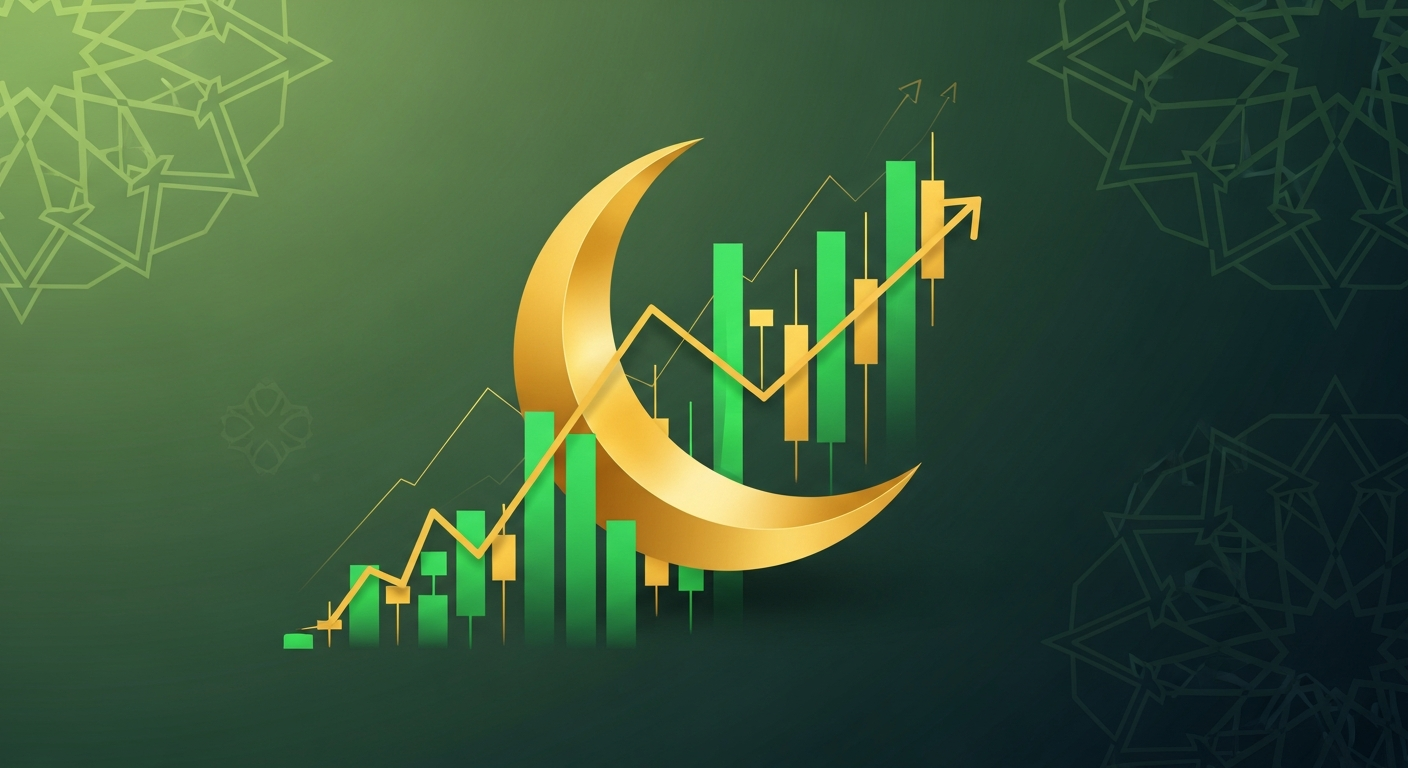
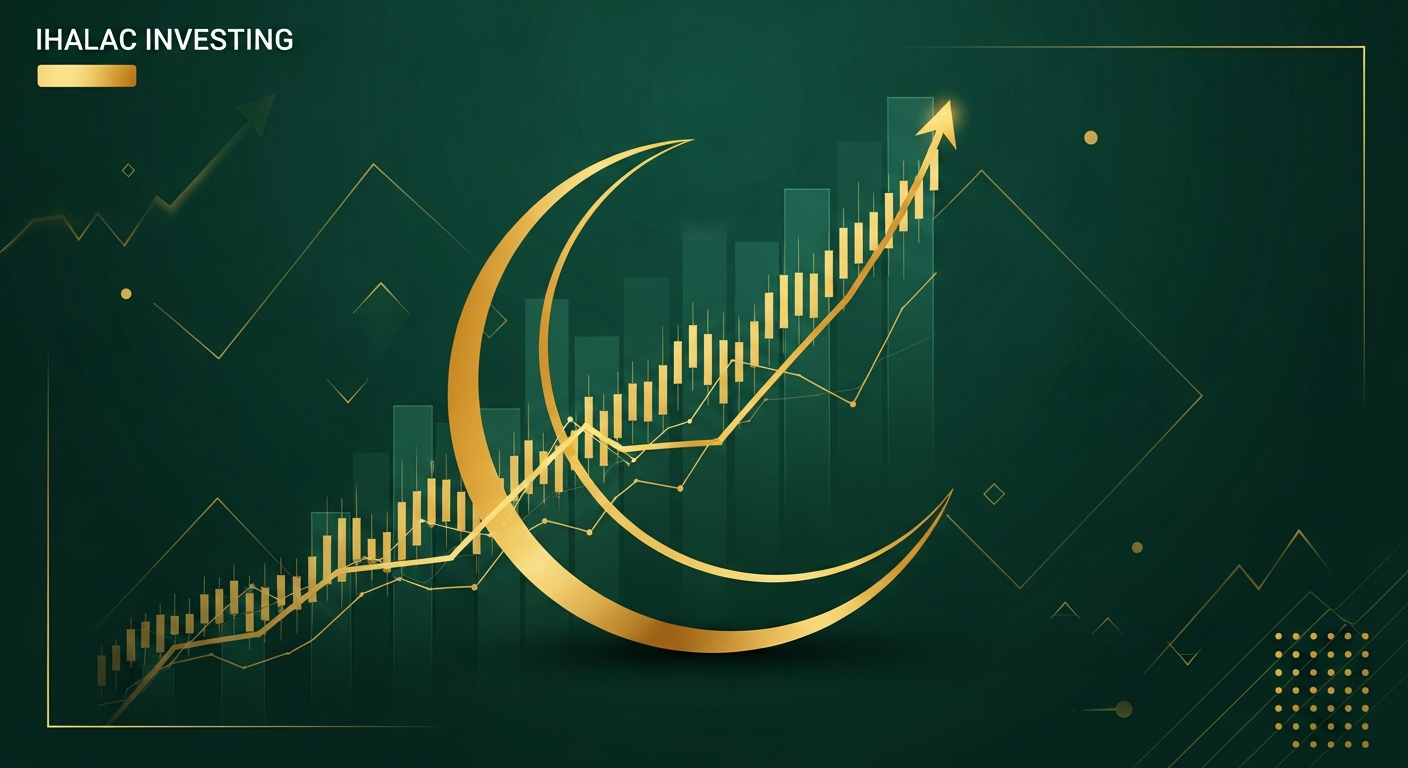
Update blog post images to match their content
Correct image paths in mock data for blog posts, aligning them with generated assets.

Replit-Commit-Author: Agent
Replit-Commit-Session-Id: a2078eb8-730e-4b29-a740-c4fd16b710e8
Replit-Commit-Checkpoint-Type: full_checkpoint
Replit-Commit-Event-Id: 57d5df31-c139-467f-b4e3-6aa1f20b13d2
Replit-Commit-Screenshot-Url: https://storage.googleapis.com/screenshot-production-us-central1/137a0de7-f512-494a-8519-35b9a9d0ac93/a2078eb8-730e-4b29-a740-c4fd16b710e8/4IzFqjz
Replit-Helium-Checkpoint-Created: true

diff --git a/client/src/lib/mockData.ts b/client/src/lib/mockData.ts
@@ -1990,7 +1990,7 @@ export const mockBlogs: BlogPost[] = [
     author: 'Sarah Ahmed',
     category: 'Education',
     tags: ['investing', 'stocks', 'beginners'],
-    featuredImage: '/images/stock-basics.jpg',
+    featuredImage: '/attached_assets/generated_images/beginner_stock_investing_guide.png',
     status: 'published',
     publishDate: '2024-01-10',
     lastUpdated: '2024-01-10',
@@ -2022,7 +2022,7 @@ export const mockBlogs: BlogPost[] = [
     author: 'Mohammed Khan',
     category: 'Analysis',
     tags: ['technology', 'stocks', '2024', 'investing'],
-    featuredImage: '/images/tech-stocks.jpg',
+    featuredImage: '/attached_assets/generated_images/tech_sector_market_analysis.png',
     status: 'published',
     publishDate: '2024-01-05',
     lastUpdated: '2024-01-08',
@@ -2054,7 +2054,7 @@ export const mockBlogs: BlogPost[] = [
     author: 'Fatima Al-Hassan',
     category: 'Strategy',
     tags: ['dividends', 'passive income', 'investing'],
-    featuredImage: '/images/dividends.jpg',
+    featuredImage: '/attached_assets/generated_images/dividend_investing_passive_income.png',
     status: 'draft',
     publishDate: '',
     lastUpdated: '2024-01-12',
